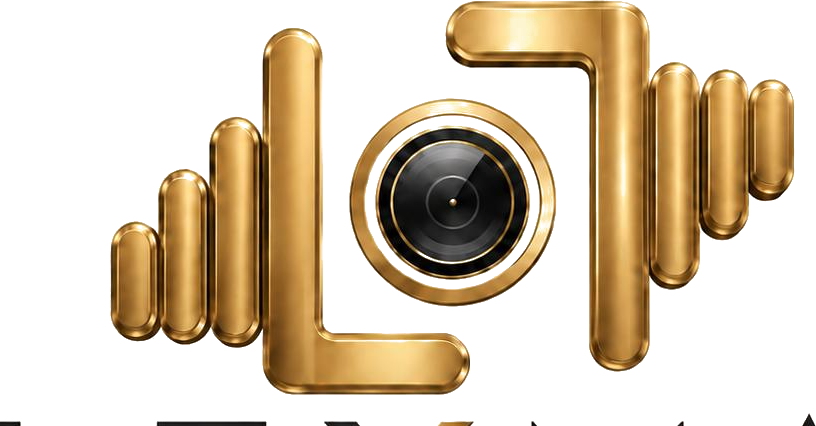
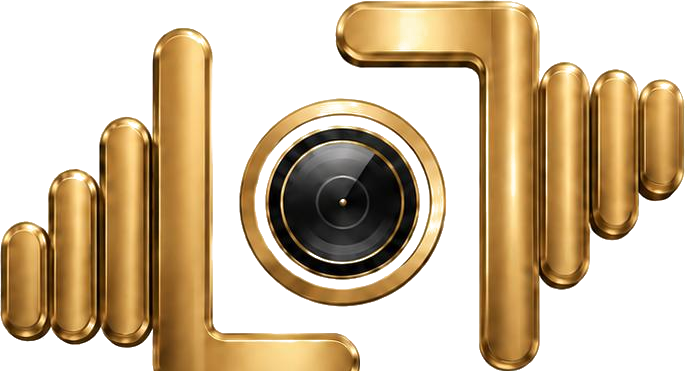
first commit

diff --git a/src/components/Preloader.module.css b/src/components/Preloader.module.css
@@ -31,9 +31,9 @@
   height: auto;
   opacity: 0;
   filter: drop-shadow(0 4px 18px rgba(201, 162, 75, 0.25));
-  /* optical centering: the camera lens sits 3.35% right / 1.2% down
+  /* optical centering: the camera lens sits 1.66% left / 6.6% down
      of the artwork's bounding box — shift so the LENS is the true center */
-  translate: -3.35% -1.2%;
+  translate: 1.66% -6.6%;
 }
 
 .wordmark {